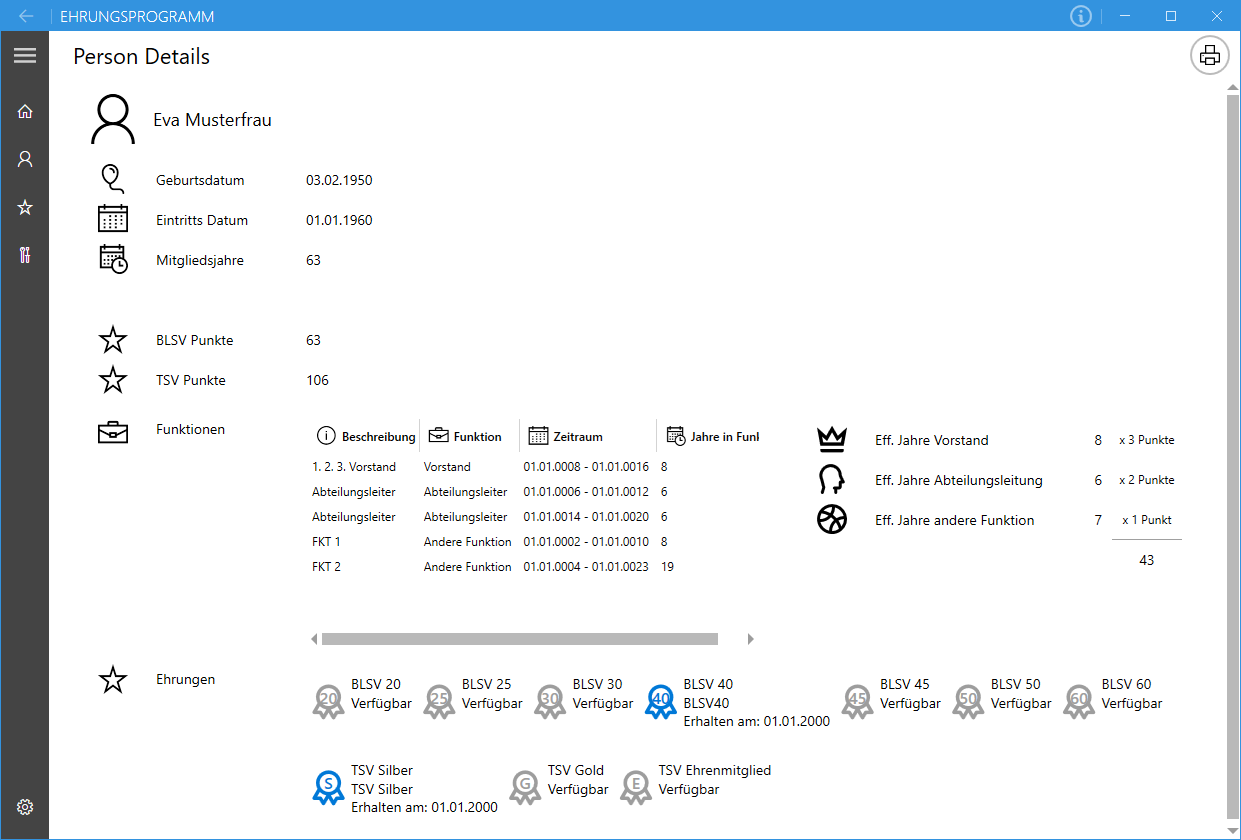
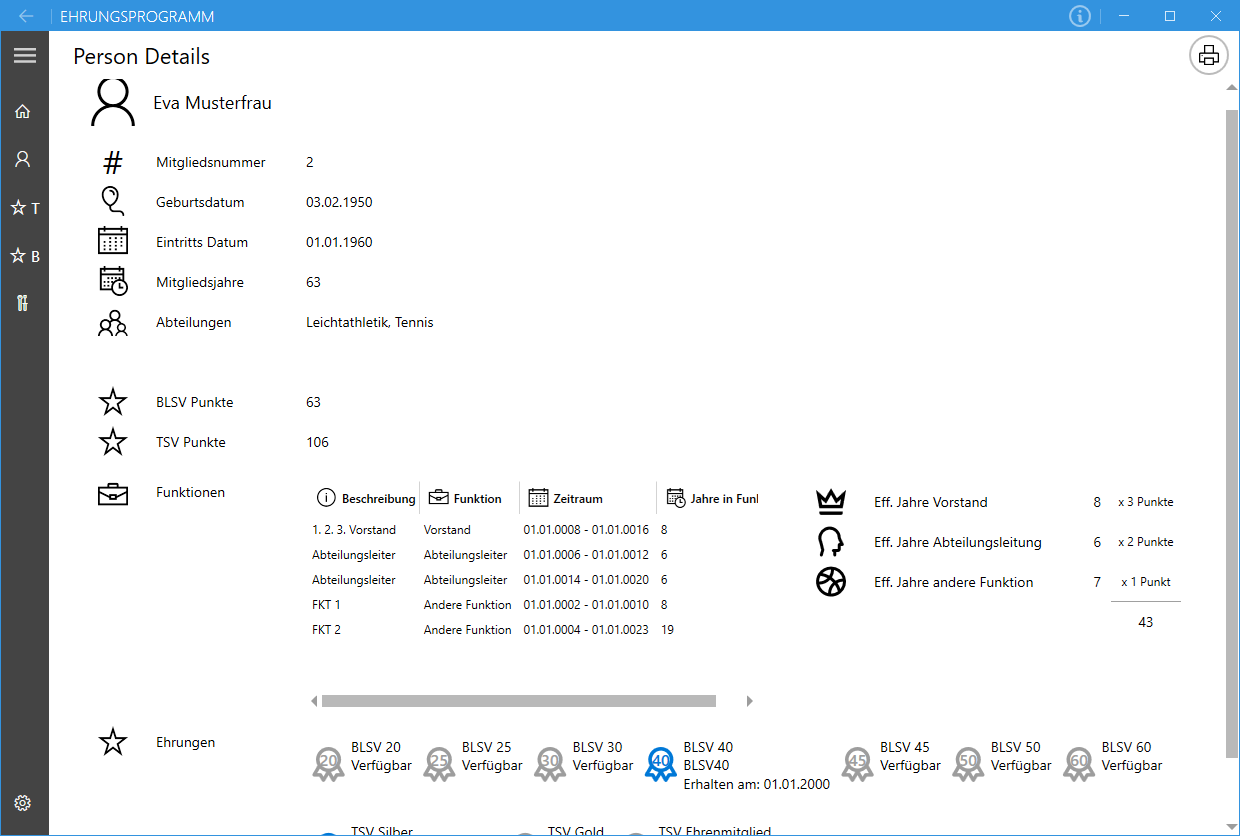
Updated Readme, Changelog and screenshots

diff --git a/README.md b/README.md
@@ -13,14 +13,16 @@ Auf dieser Grundlage werden alle fälligen Ehrungen (BLSV und TSV) errechnet und
 Nachfolgend werden kurz die Funktionen der jeweiligen Seite der Anwendung beschrieben:
 - **Start:** Startseite der Anwendung. Von hier sind alle anderen Seiten erreichbar. Diese Seite ist gleichwertig zum Menü auf der linken Seite.
 - **Personen:** Kurze Übersicht aller eingelesenen Personen inklusive Name, Eintrittsdatum und eventuell verfügbaren Ehrungen. Über die Suchleiste kann die Liste nach Namen, Punkten oder dem Eintrittsdatum gefiltert werden. Fährt man mit der Maus auf eine Person, können über den Info-Knopf nähere Details über die Person angezeigt werden. Durch einen Klick auf die Spaltenüberschriften wird die Liste nach der Spalte sortiert.
-- **Ehrungen:** Übersicht aller Ehrungen, aufgeteilt nach BLSV und TSV Ehrungen. In den Listen werden die Namen und Punkte der Personen aufgeführt, für die eine entsprechende Ehrung aussteht. Jede Person wird nur bei der *höchsten verfügbaren Ehrung* angezeigt. Fährt man mit der Maus auf eine Person, können über den Info-Knopf nähere Details über die Person angezeigt werden. Durch einen Klick auf die Spaltenüberschriften wird die Liste nach der Spalte sortiert.
-- **Datenbank verwalten:** Hier können die Grunddaten eingestellt bzw. geladen werden, mit der die Anwendung arbeitet. Über den Knopf "Aus Datei importieren" kann eine Datei mit den Stammdaten der Mitglieder eingelesen werden. Außerdem besteht hier die Möglichkeit, die letzte Datei nochmals zu laden (falls es Änderungen in der Datei gab) oder die geladenen Daten zu löschen. Der Stichtag wird als Bezugstag für alle Berechnungne verwendet.
+- **TSV Ehrungen:** Übersicht aller TSV Ehrungen. In den Listen werden die Namen, Punkte und Abteilungen der Personen aufgeführt, für die eine entsprechende Ehrung aussteht. Jede Person wird nur bei der *höchsten verfügbaren Ehrung* angezeigt. Fährt man mit der Maus auf eine Person, können über den Info-Knopf nähere Details über die Person angezeigt werden. Durch einen Klick auf die Spaltenüberschriften wird die Liste nach der Spalte sortiert. Am rechten Rand können bestimmte Ehrungen ausgeblendet werden.
+- **BLSV Ehrungen:** Übersicht aller BLSV Ehrungen. In den Listen werden die Namen, Punkte und Abteilungen der Personen aufgeführt, für die eine entsprechende Ehrung aussteht. Jede Person wird nur bei der *höchsten verfügbaren Ehrung* angezeigt. Fährt man mit der Maus auf eine Person, können über den Info-Knopf nähere Details über die Person angezeigt werden. Durch einen Klick auf die Spaltenüberschriften wird die Liste nach der Spalte sortiert. Am rechten Rand können bestimmte Ehrungen ausgeblendet werden. Mit dem Schiebeschalter können nur die BLSV25 und BLSV40 Ehrungen ausgewählt werden.
+- **Datenbank verwalten:** Hier können die Grunddaten eingestellt bzw. geladen werden, mit der die Anwendung arbeitet. Über den Knopf "Aus Datei importieren" kann eine Datei mit den Stammdaten der Mitglieder eingelesen werden. Außerdem besteht hier die Möglichkeit, die letzte Datei nochmals zu laden (falls es Änderungen in der Datei gab) oder die geladenen Daten zu löschen. Der Stichtag wird als Bezugstag für alle Berechnungen verwendet. Hier sind auch Statistiken zur geladenen Datei zu finden.
 - **Einstellungen:** Hier kann das Design der Anwendung eingestellt werden (Hell, Dunkel oder Standard). Bei Standard wird die Windows Einstellung übernommen. Außerdem ist hier die Version ersichtlich.
-- **Person Details:** Diese Seite ist nicht direkt erreichbar. Wird auf der Seite "Personen" oder "Ehrungen" der Info-Knopf einer Person angeklickt, gelangt man auf diese Seite. Es werden alle geladenen Stammdaten (Name, Geburtsdatum, Eintrittsdatum, Funktionen) und berechnete Daten (effektive Jahre in den Funktionen, Ehrungen, Punkte) angezeigt.
+- **Person Details:** Diese Seite ist nicht direkt erreichbar. Wird auf der Seite "Personen", "TSV Ehrungen" oder "BLSV Ehrungen" der Info-Knopf einer Person angeklickt, gelangt man auf diese Seite. Es werden alle geladenen Stammdaten (Name, Mitgliedsnummer, Geburtsdatum, Eintrittsdatum, Abteilungen, Funktionen) und berechnete Daten (effektive Jahre in den Funktionen, Ehrungen, Punkte) angezeigt.
 
 <img src="https://github.com/M1S2/Ehrungsprogramm/raw/master/Screenshots/Screenshot_Start.png" width="45%"></img>
 <img src="https://github.com/M1S2/Ehrungsprogramm/raw/master/Screenshots/Screenshot_Persons.png" width="45%"></img>
-<img src="https://github.com/M1S2/Ehrungsprogramm/raw/master/Screenshots/Screenshot_Rewards.png" width="45%"></img>
+<img src="https://github.com/M1S2/Ehrungsprogramm/raw/master/Screenshots/Screenshot_TSV_Rewards.png" width="45%"></img>
+<img src="https://github.com/M1S2/Ehrungsprogramm/raw/master/Screenshots/Screenshot_BLSV_Rewards.png" width="45%"></img>
 <img src="https://github.com/M1S2/Ehrungsprogramm/raw/master/Screenshots/Screenshot_ManageDatabase.png" width="45%"></img>
 <img src="https://github.com/M1S2/Ehrungsprogramm/raw/master/Screenshots/Screenshot_Settings.png" width="45%"></img>
 <img src="https://github.com/M1S2/Ehrungsprogramm/raw/master/Screenshots/Screenshot_PersonDetails.png" width="45%"></img>
@@ -32,17 +34,23 @@ Nachfolgend werden kurz die Funktionen der jeweiligen Seite der Anwendung beschr
 ## Dateiformat Mitgliederstammdaten
 Momentan wird für den Datei Import eine .csv Datei unterstützt, die aus dem Mitgliederverwaltungsprogramm ProWinner exportiert werden kann. Diese Datei muss die Funktionen (inklusive Zeiträumen) sowie alle Ehrungen (inklusive Datum und Bezeichnung) enthalten.
 
-Die Kopfzeile der .csv Datei muss dabei folgendes Format haben:
+Die Kopfzeile der .csv Datei hat dabei idealerweise folgendes Format:
 ```
-"Name, Vorname";"Geb.Datum";"Eintritt am";"Funktionsname";"von -";"bis";"Ehr.Nr.";"Ehr.dat.";"Ehrungsbezeichnung";"Eintritt am";"Funktionsname";"Funktion von";"Funktion bis";"Ehrungs-Nr";"Ehrung am";"Ehrungsname"; ...
+"Name, Vorname";"Mitgliedsnummer";"Geb.Datum";"Eintritt am";"Abteilungen";"Funktionsname";"von -";"bis";"Ehr.Nr.";"Ehr.dat.";"Ehrungsbezeichnung";"Eintritt am";"Funktionsname";"Funktion von";"Funktion bis";"Ehrungs-Nr";"Ehrung am";"Ehrungsname"; ...
 ```
 
-Kritische Fehler in der Datei werden direkt beim Einlesen angezeigt. Die bisher existierenden Daten bleiben in diesem Fall bestehen.
+Folgende Spalten müssen dabei unbedingt vorhanden sein:
+- "Name, Vorname"
+- "Eintritt am"
+- "Funktionsname", "von -", "bis" mindestens jeweils 1x
+- "Ehr.Nr.";"Ehr.dat.";"Ehrungsbezeichnung" mindestens jeweils 1x
+
+Alle anderen Spalten sind nicht zwingend notwendig. Kritische Fehler in der Datei werden direkt beim Einlesen angezeigt. Die bisher existierenden Daten bleiben in diesem Fall bestehen.
 Alle anderen Fehler, die in der Datei bestehen, werden mit Ausrufezeichen hinter den jeweiligen Personen dargestellt.
 Alle Fehler sollten in ProWinner korrigiert werden und nochmals exportiert werden. Ist die neue, korrigierte Datei vorhanden, kann lediglich über "Letzte Datei neu laden" auf der Seite "Datenbank verwalten" alles neu geladen werden.
 
 ## Druckfunktion
-Auf den Seiten "Personen", "Ehrungen" und "Personen Details" gibt es im rechten oberen Eck einen Knopf, über den eine Übersichtsseite erstellt werden kann. Der Druck erfolgt in eine PDF Datei, für die beim Drucken der Pfad ausgewählt werden kann.
+Auf den Seiten "Personen", "TSV Ehrungen", "BLSV Ehrungen" und "Personen Details" gibt es im rechten oberen Eck einen Knopf, über den eine Übersichtsseite erstellt werden kann. Der Druck erfolgt in eine PDF Datei, für die beim Drucken der Pfad ausgewählt werden kann.
 Um die Übersichtsseite auf Papier auszudrucken, muss die PDF Datei in einem geeigneten Programm geöffnet und gedruckt werden.
 
 ![PrintButton](https://github.com/M1S2/Ehrungsprogramm/raw/master/Screenshots/Screenshot_PrintButton.png)

diff --git a/CHANGELOG.md b/CHANGELOG.md
@@ -1,5 +1,12 @@
 # Ehrungsprogramm Changelog
 
+## [v1.4.0]
+
+- Bibliotheken auf neue Versionen gebracht, um die Sicherheit zu verbessern (#30)
+- TSV und BLSV Ehrungen werden auf separaten Seiten dargestellt (#29)
+- Erweiterte CSV Datei mit Informationen zu den Abteilungen einer Person wird unterstützt (#21)
+- Einige Funktionen bei Personen wurden zu viel gezählt (#28)
+
 ## [v1.3.1]
 
 - AssemblyInfoHelper Library Update (v5.3.0): Funktion hinzugefügt, um letzte Datenbank nach Update wiederherzustellen
